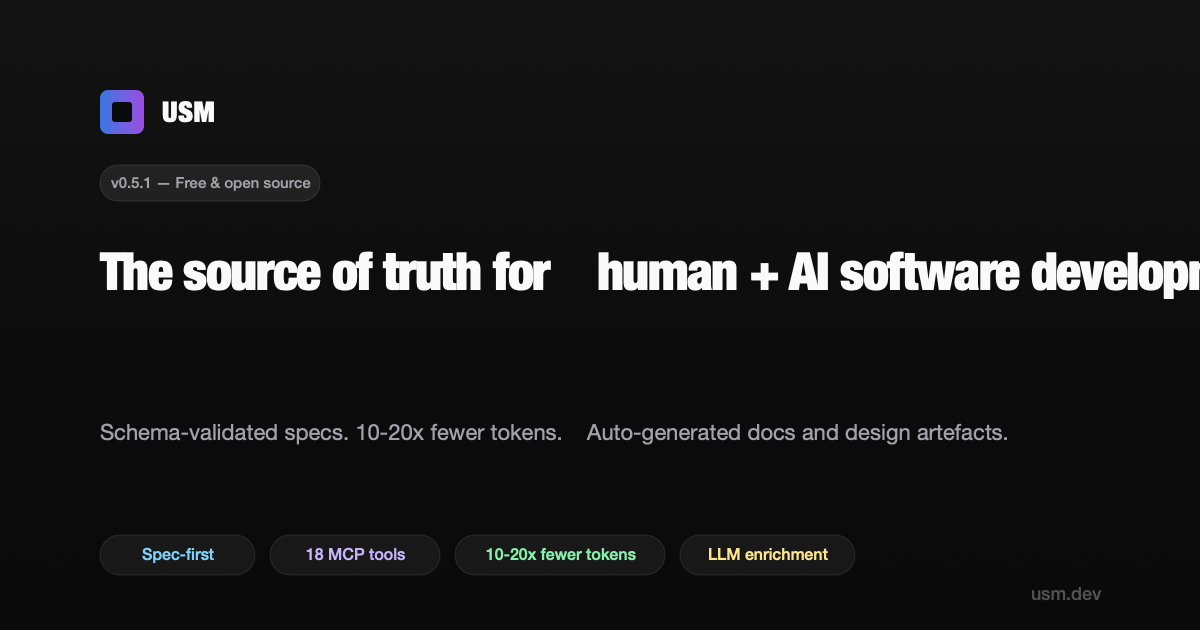
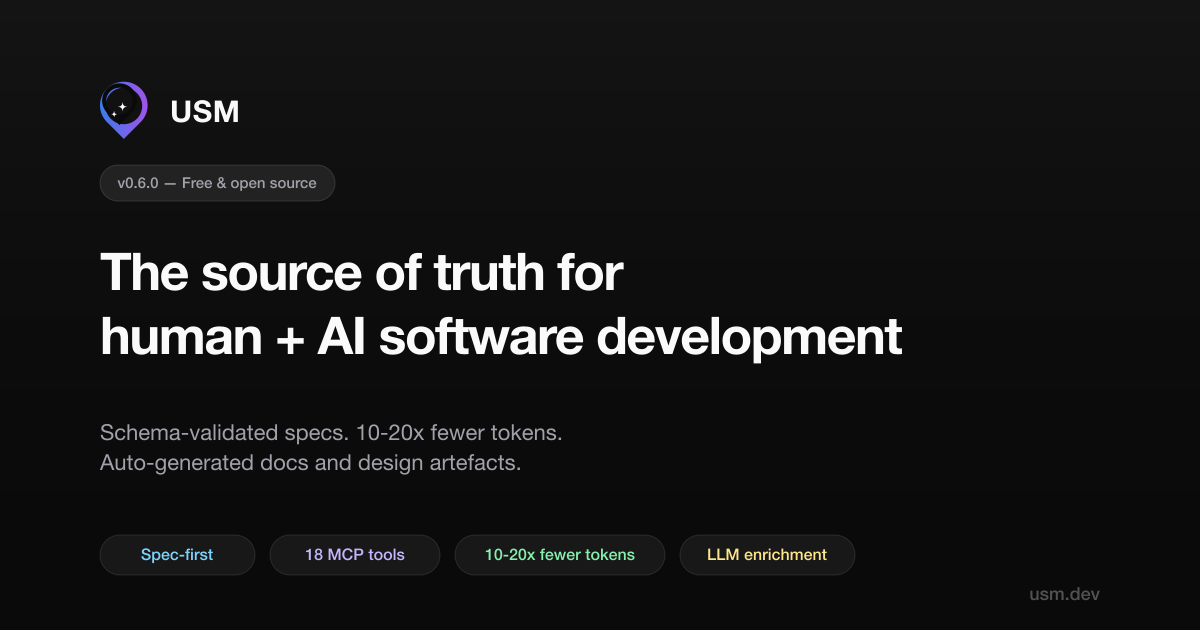
fix(web): mobile hamburger nav, refreshed OG image (v0.6.0 + new brand)
- Add responsive hamburger menu for mobile (<md) with stacked dropdown panel
- Hide desktop nav links below md breakpoint; show hamburger toggle
- Mobile links close panel on click; full-width Get Started CTA
- Refresh og-image.svg to use new pin/sparkle brand mark + v0.6.0 badge
- Re-rasterize og-image.png (1200x630, sharp/librsvg)
- Add allowedDevOrigins for LAN HMR during mobile testing

diff --git a/web/src/app/page.tsx b/web/src/app/page.tsx
@@ -16,7 +16,7 @@ import {
   Zap, Shield, FileText, Brain, MessageSquare, FileCode,
   Eye, Hammer, CheckCircle, Copy, Check, Terminal,
   GitBranch, Building2, Users, ArrowRight, Star,
-  Search, Sparkles, Wand2
+  Search, Sparkles, Wand2, Menu, X, Package
 } from "lucide-react";
 
 const benefits = [
@@ -105,6 +105,7 @@ function CopyBlock({ code }: { code: string }) {
 }
 
 export default function Home() {
+  const [mobileNavOpen, setMobileNavOpen] = useState(false);
   return (
     <div className="min-h-screen bg-background text-foreground">
       {/* Nav */}
@@ -114,7 +115,9 @@ export default function Home() {
             {/* eslint-disable-next-line @next/next/no-img-element */}
             <img src="/usm-logo.svg" alt="USM" className="h-[40px] w-auto" />
           </a>
-          <div className="flex items-center gap-5 text-sm">
+
+          {/* Desktop nav links */}
+          <div className="hidden md:flex items-center gap-5 text-sm">
             <a href="https://docs.usm.dev" target="_blank" rel="noopener noreferrer" className="text-muted-foreground hover:text-foreground transition-colors">Help Docs</a>
             <a href="https://dev-docs.usm.dev" target="_blank" rel="noopener noreferrer" className="text-muted-foreground hover:text-foreground transition-colors">Technical Docs</a>
             <a href="https://github.com/Smith-Gray-Pty-Ltd/usm" target="_blank" rel="noopener noreferrer" className="flex items-center gap-1.5 text-muted-foreground hover:text-foreground transition-colors">
@@ -127,7 +130,82 @@ export default function Home() {
             </a>
             <a href="https://docs.usm.dev/getting-started" target="_blank" rel="noopener noreferrer" className={buttonVariants({ size: "sm" })}>Get Started</a>
           </div>
+
+          {/* Mobile hamburger toggle */}
+          <button
+            type="button"
+            aria-label={mobileNavOpen ? "Close menu" : "Open menu"}
+            aria-expanded={mobileNavOpen}
+            aria-controls="mobile-nav"
+            onClick={() => setMobileNavOpen(!mobileNavOpen)}
+            className="md:hidden inline-flex items-center justify-center w-9 h-9 rounded-md text-muted-foreground hover:text-foreground hover:bg-muted transition-colors"
+          >
+            {mobileNavOpen ? <X className="w-5 h-5" /> : <Menu className="w-5 h-5" />}
+          </button>
         </div>
+
+        {/* Mobile dropdown panel */}
+        {mobileNavOpen && (
+          <div
+            id="mobile-nav"
+            className="md:hidden border-t bg-background"
+          >
+            <div className="mx-auto max-w-6xl px-6 py-4 flex flex-col gap-1 text-sm">
+              <a
+                href="https://docs.usm.dev"
+                target="_blank"
+                rel="noopener noreferrer"
+                onClick={() => setMobileNavOpen(false)}
+                className="flex items-center gap-2 py-2.5 px-2 rounded-md text-muted-foreground hover:text-foreground hover:bg-muted transition-colors"
+              >
+                <FileText className="w-4 h-4" />
+                Help Docs
+              </a>
+              <a
+                href="https://dev-docs.usm.dev"
+                target="_blank"
+                rel="noopener noreferrer"
+                onClick={() => setMobileNavOpen(false)}
+                className="flex items-center gap-2 py-2.5 px-2 rounded-md text-muted-foreground hover:text-foreground hover:bg-muted transition-colors"
+              >
+                <FileCode className="w-4 h-4" />
+                Technical Docs
+              </a>
+              <a
+                href="https://github.com/Smith-Gray-Pty-Ltd/usm"
+                target="_blank"
+                rel="noopener noreferrer"
+                onClick={() => setMobileNavOpen(false)}
+                className="flex items-center gap-2 py-2.5 px-2 rounded-md text-muted-foreground hover:text-foreground hover:bg-muted transition-colors"
+              >
+                <Star className="w-4 h-4" />
+                GitHub
+              </a>
+              <a
+                href="https://www.npmjs.com/package/@smithgray/usm"
+                target="_blank"
+                rel="noopener noreferrer"
+                onClick={() => setMobileNavOpen(false)}
+                className="flex items-center gap-2 py-2.5 px-2 rounded-md text-muted-foreground hover:text-foreground hover:bg-muted transition-colors"
+              >
+                <Package className="w-4 h-4" />
+                <span className="flex items-center gap-1.5">
+                  npm
+                  <img src="https://img.shields.io/npm/v/@smithgray/usm?style=flat&color=525252" alt="" className="h-4" />
+                </span>
+              </a>
+              <a
+                href="https://docs.usm.dev/getting-started"
+                target="_blank"
+                rel="noopener noreferrer"
+                onClick={() => setMobileNavOpen(false)}
+                className={`${buttonVariants({ size: "sm" })} mt-2 w-full`}
+              >
+                Get Started
+              </a>
+            </div>
+          </div>
+        )}
       </nav>
 
       {/* Hero */}

diff --git a/web/next.config.ts b/web/next.config.ts
@@ -5,6 +5,7 @@ const nextConfig: NextConfig = {
   images: {
     unoptimized: true,
   },
+  allowedDevOrigins: ["192.168.180.165"],
 };
 
 export default nextConfig;
